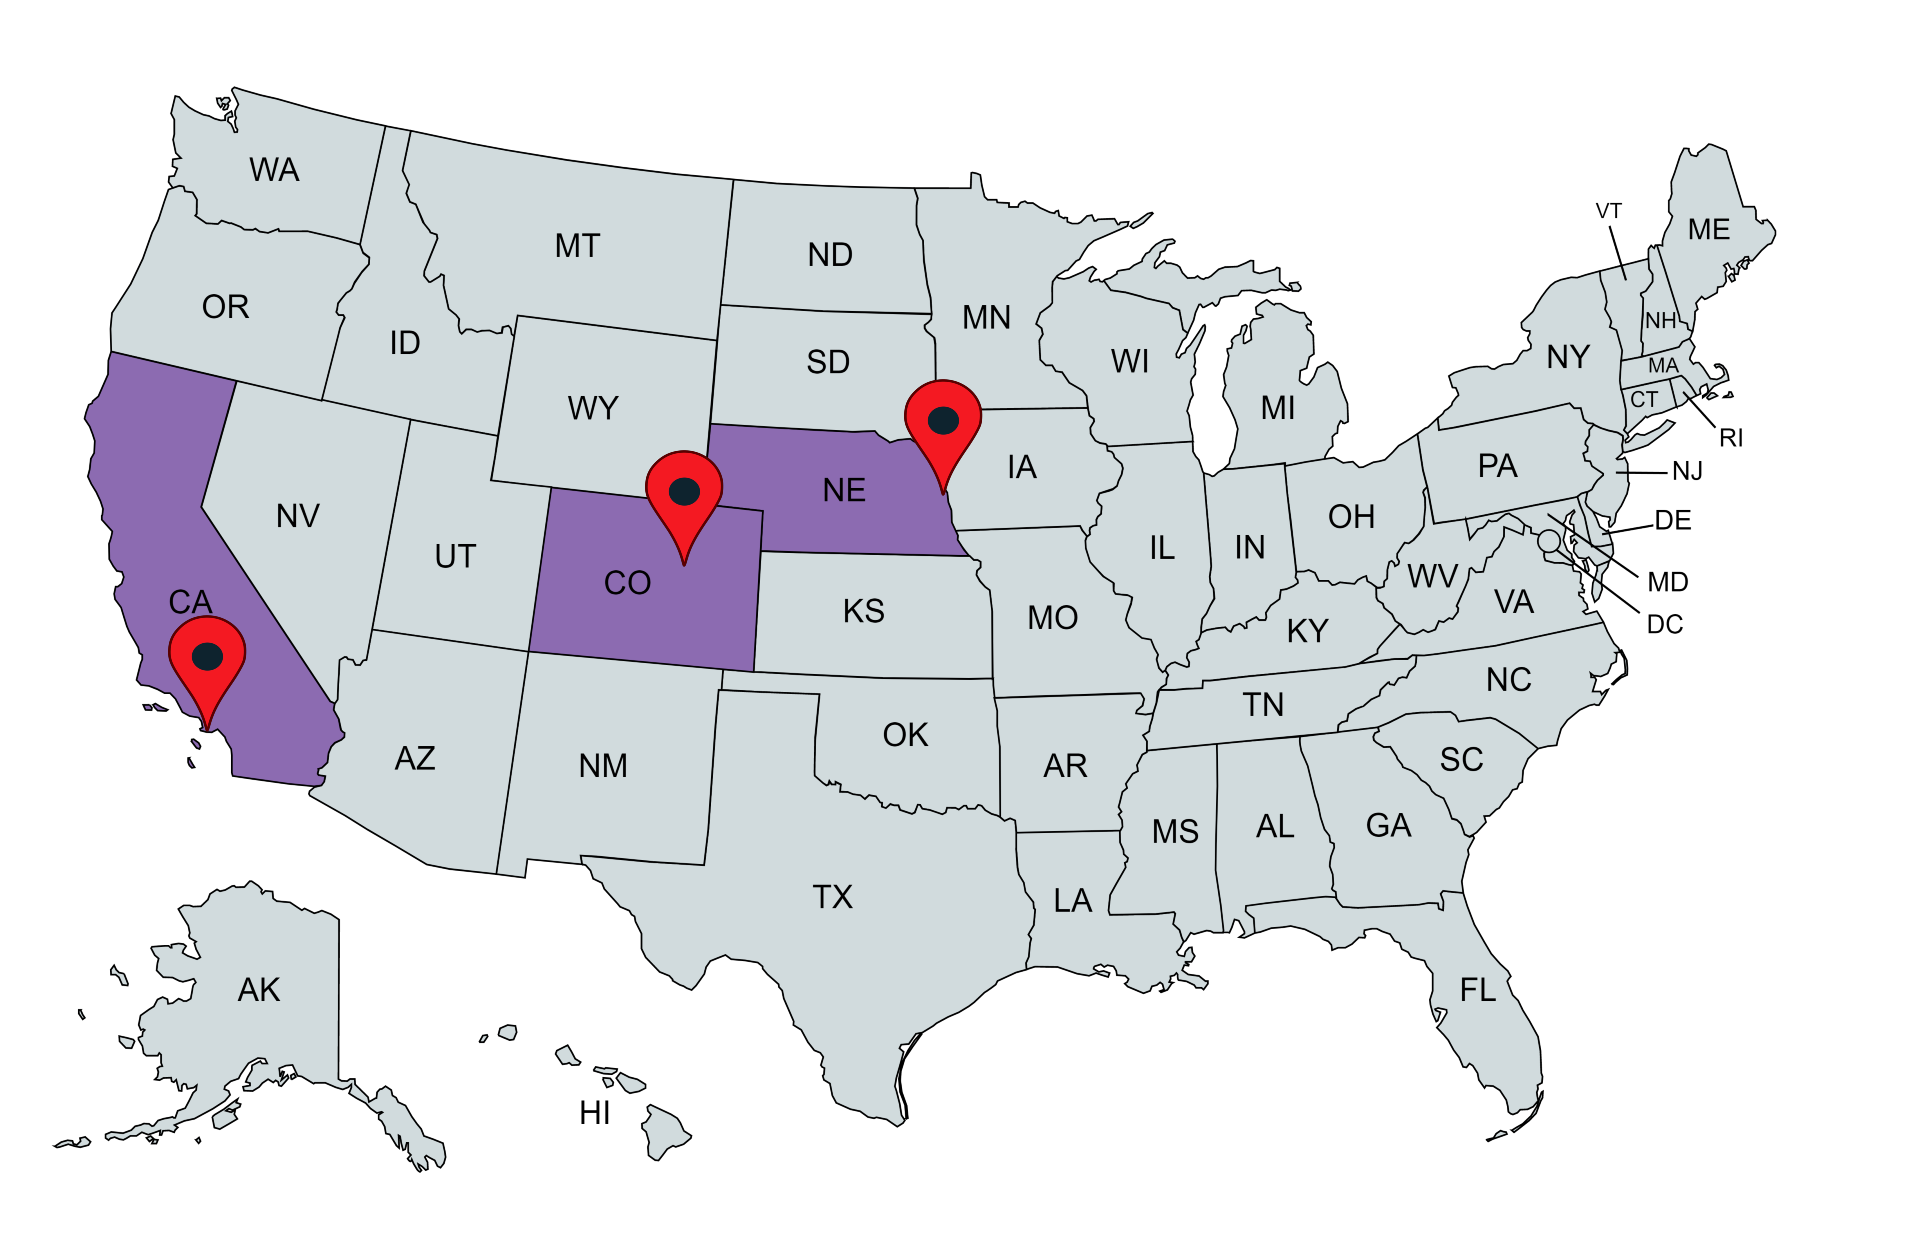
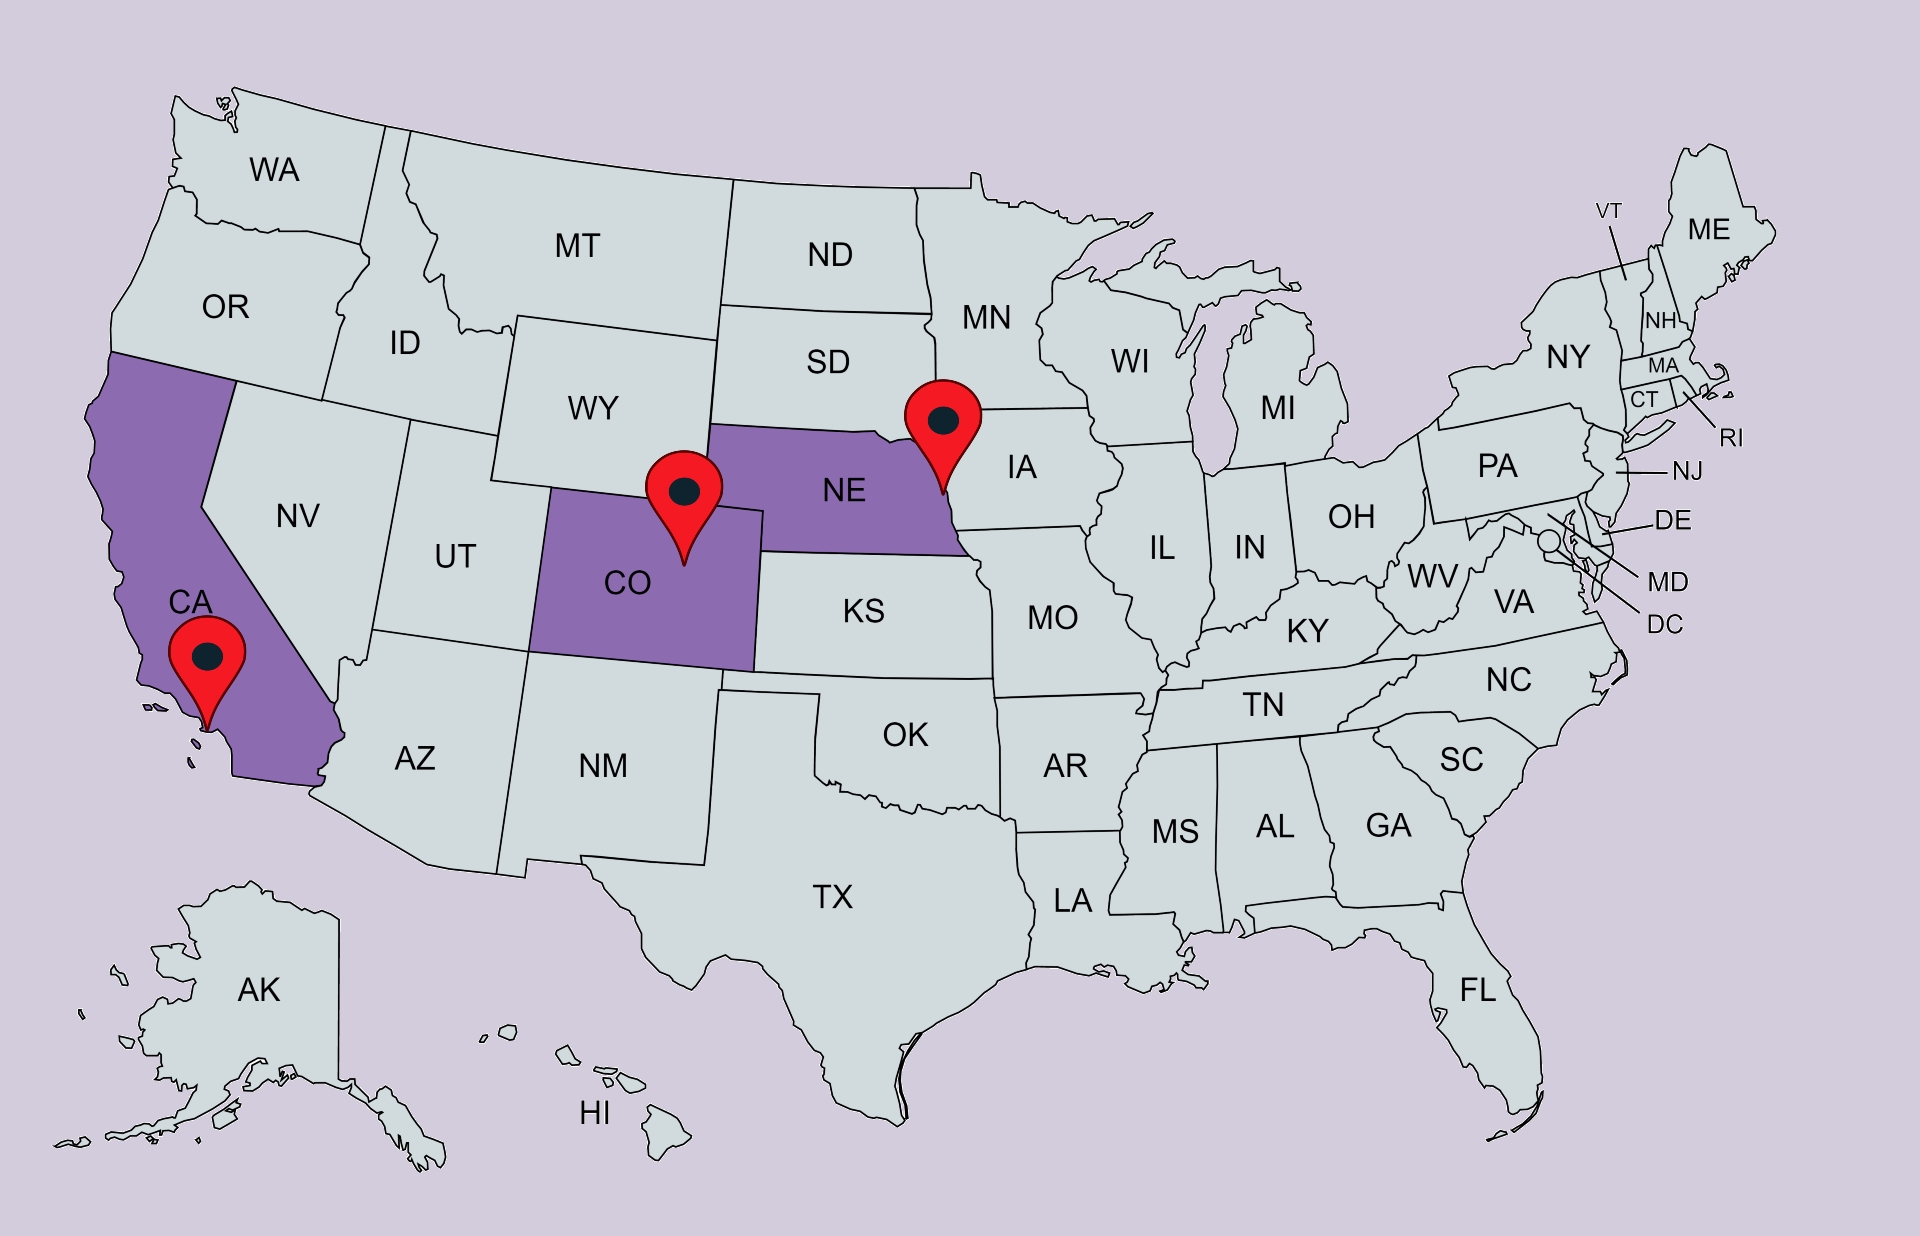
Fixed background image
Changed color to match the page. Fixed margin to clear up white space on Location Page.

diff --git a/Provisio/src/main/webapp/provisio.css b/Provisio/src/main/webapp/provisio.css
@@ -318,7 +318,8 @@ button {
 /* Styles for Locations Page */
 #locationimg {
 	border-radius: 10px;
-	margin-top: -90px;
+	margin-top: -200px;
+	margin-bottom: -220px;
 	margin-left: auto;
 	margin-right: auto;
 	text-align: center; 
